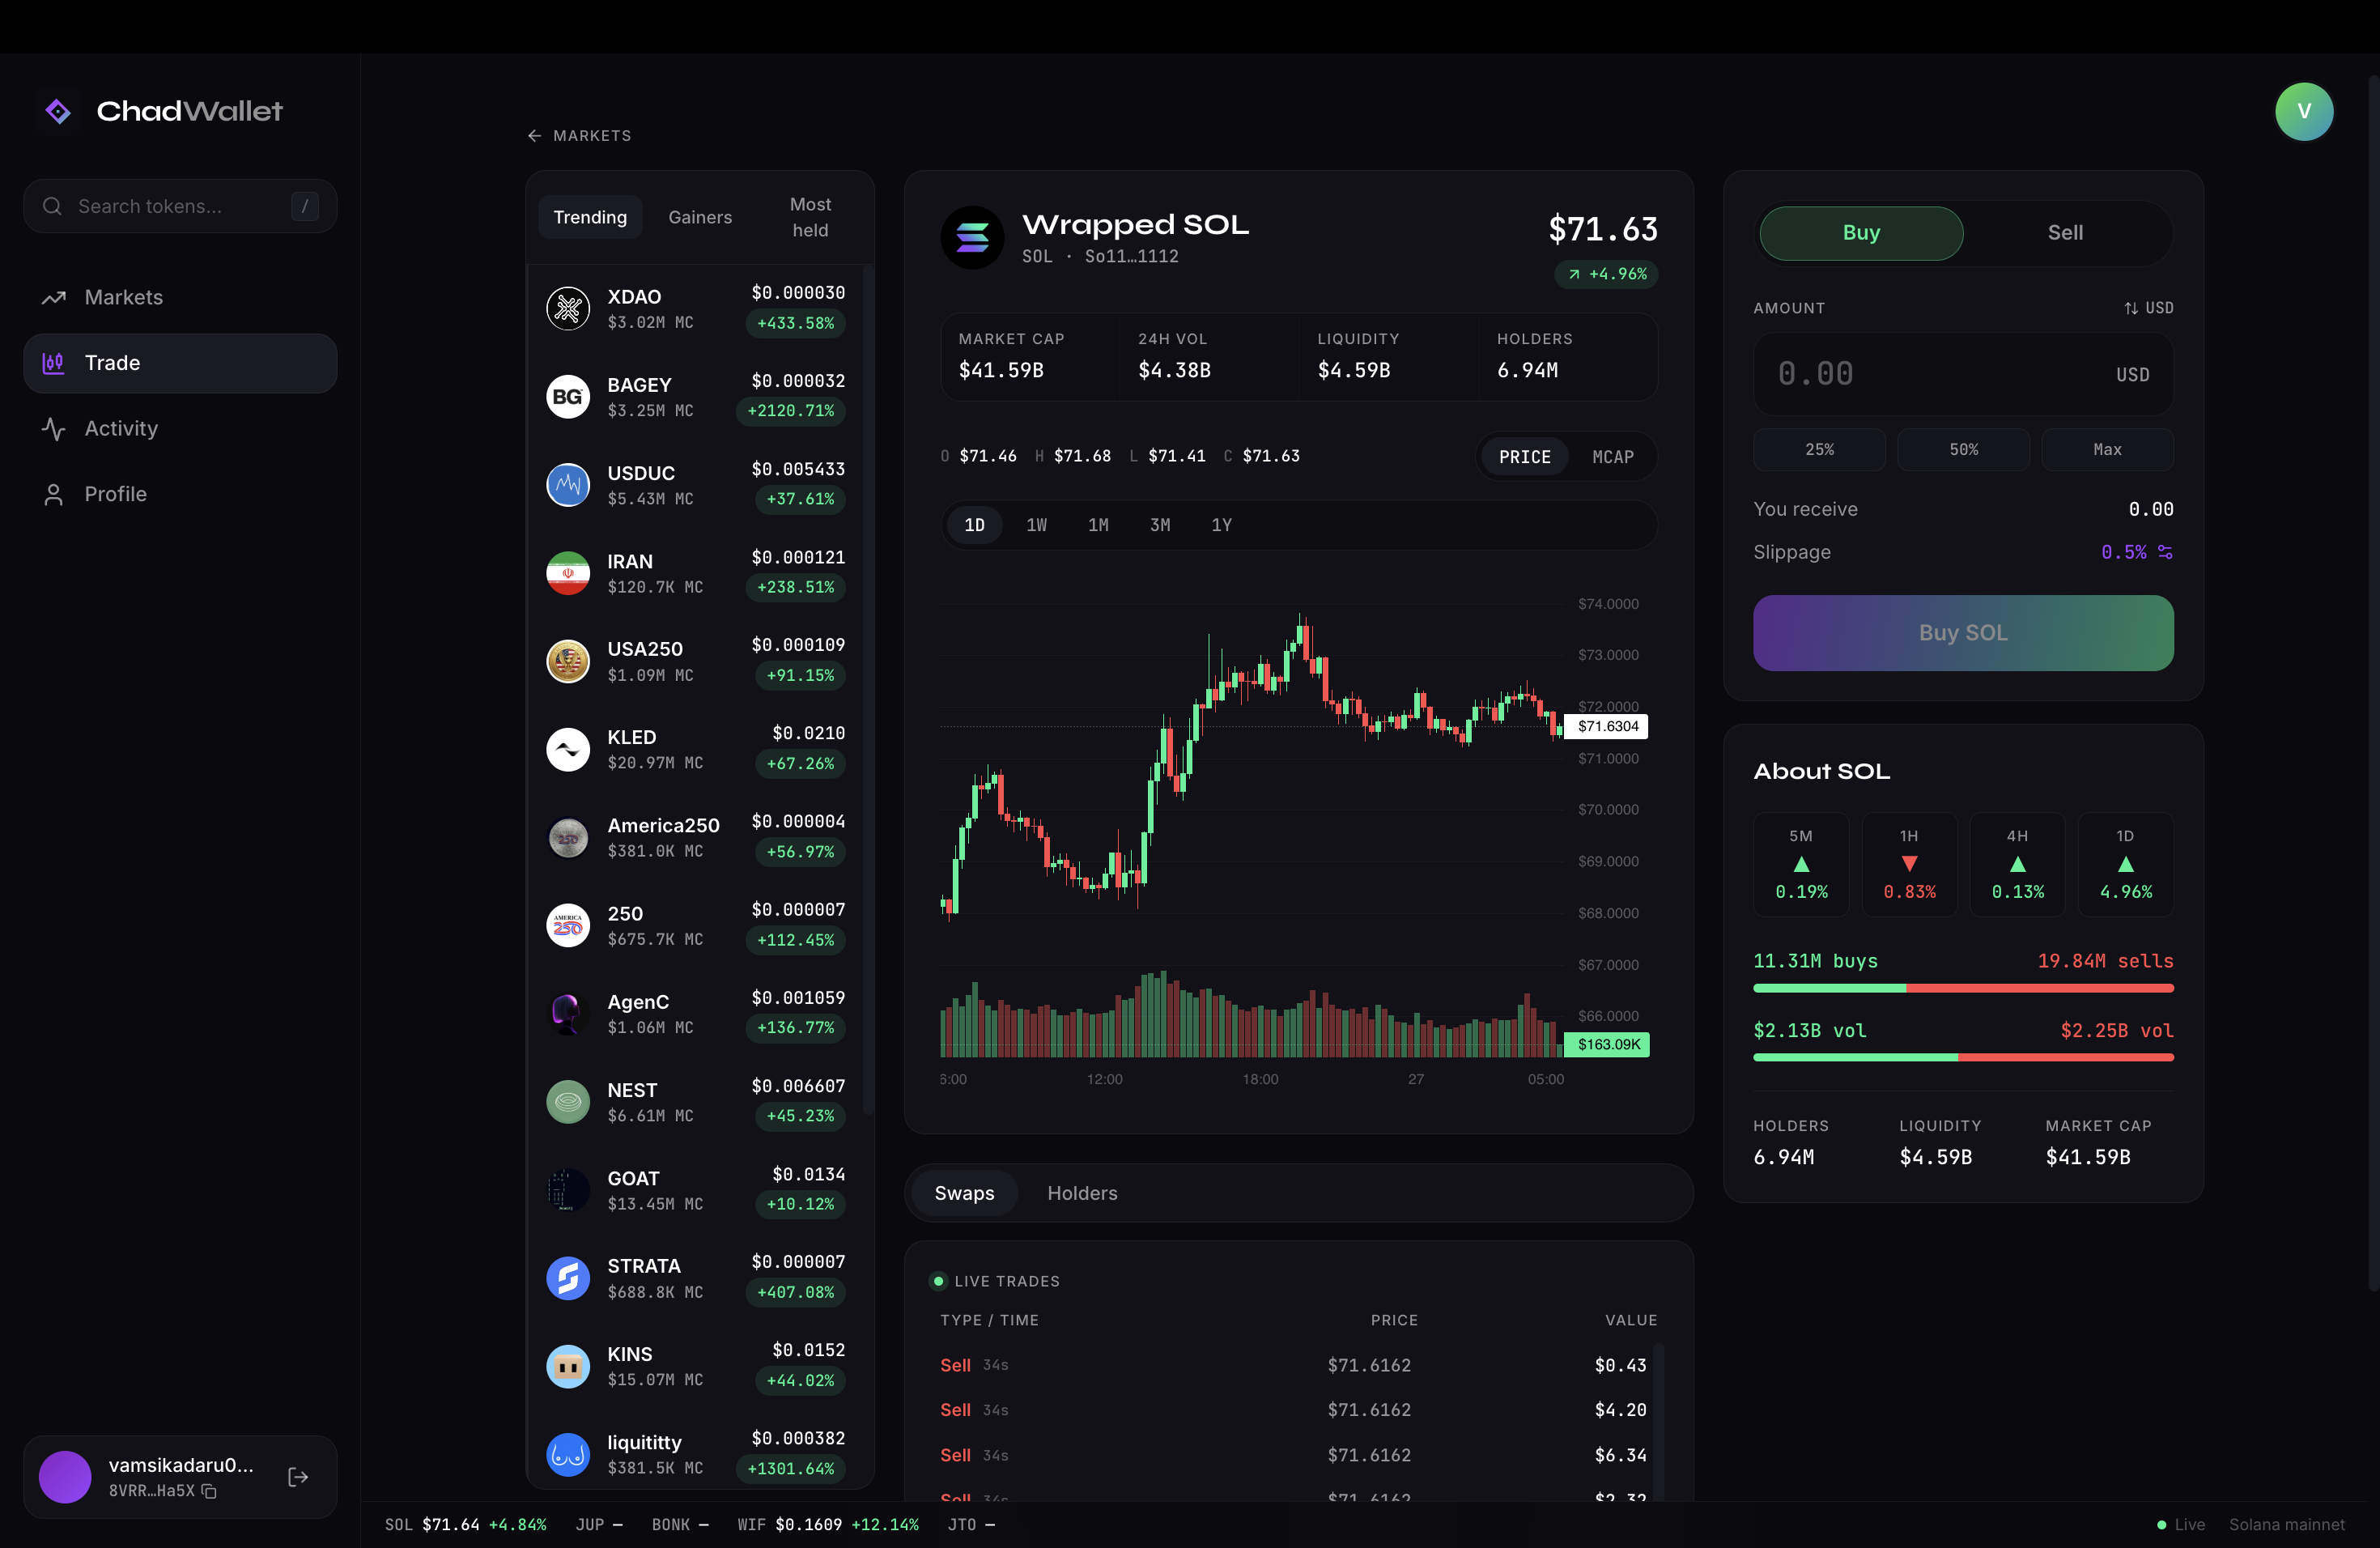
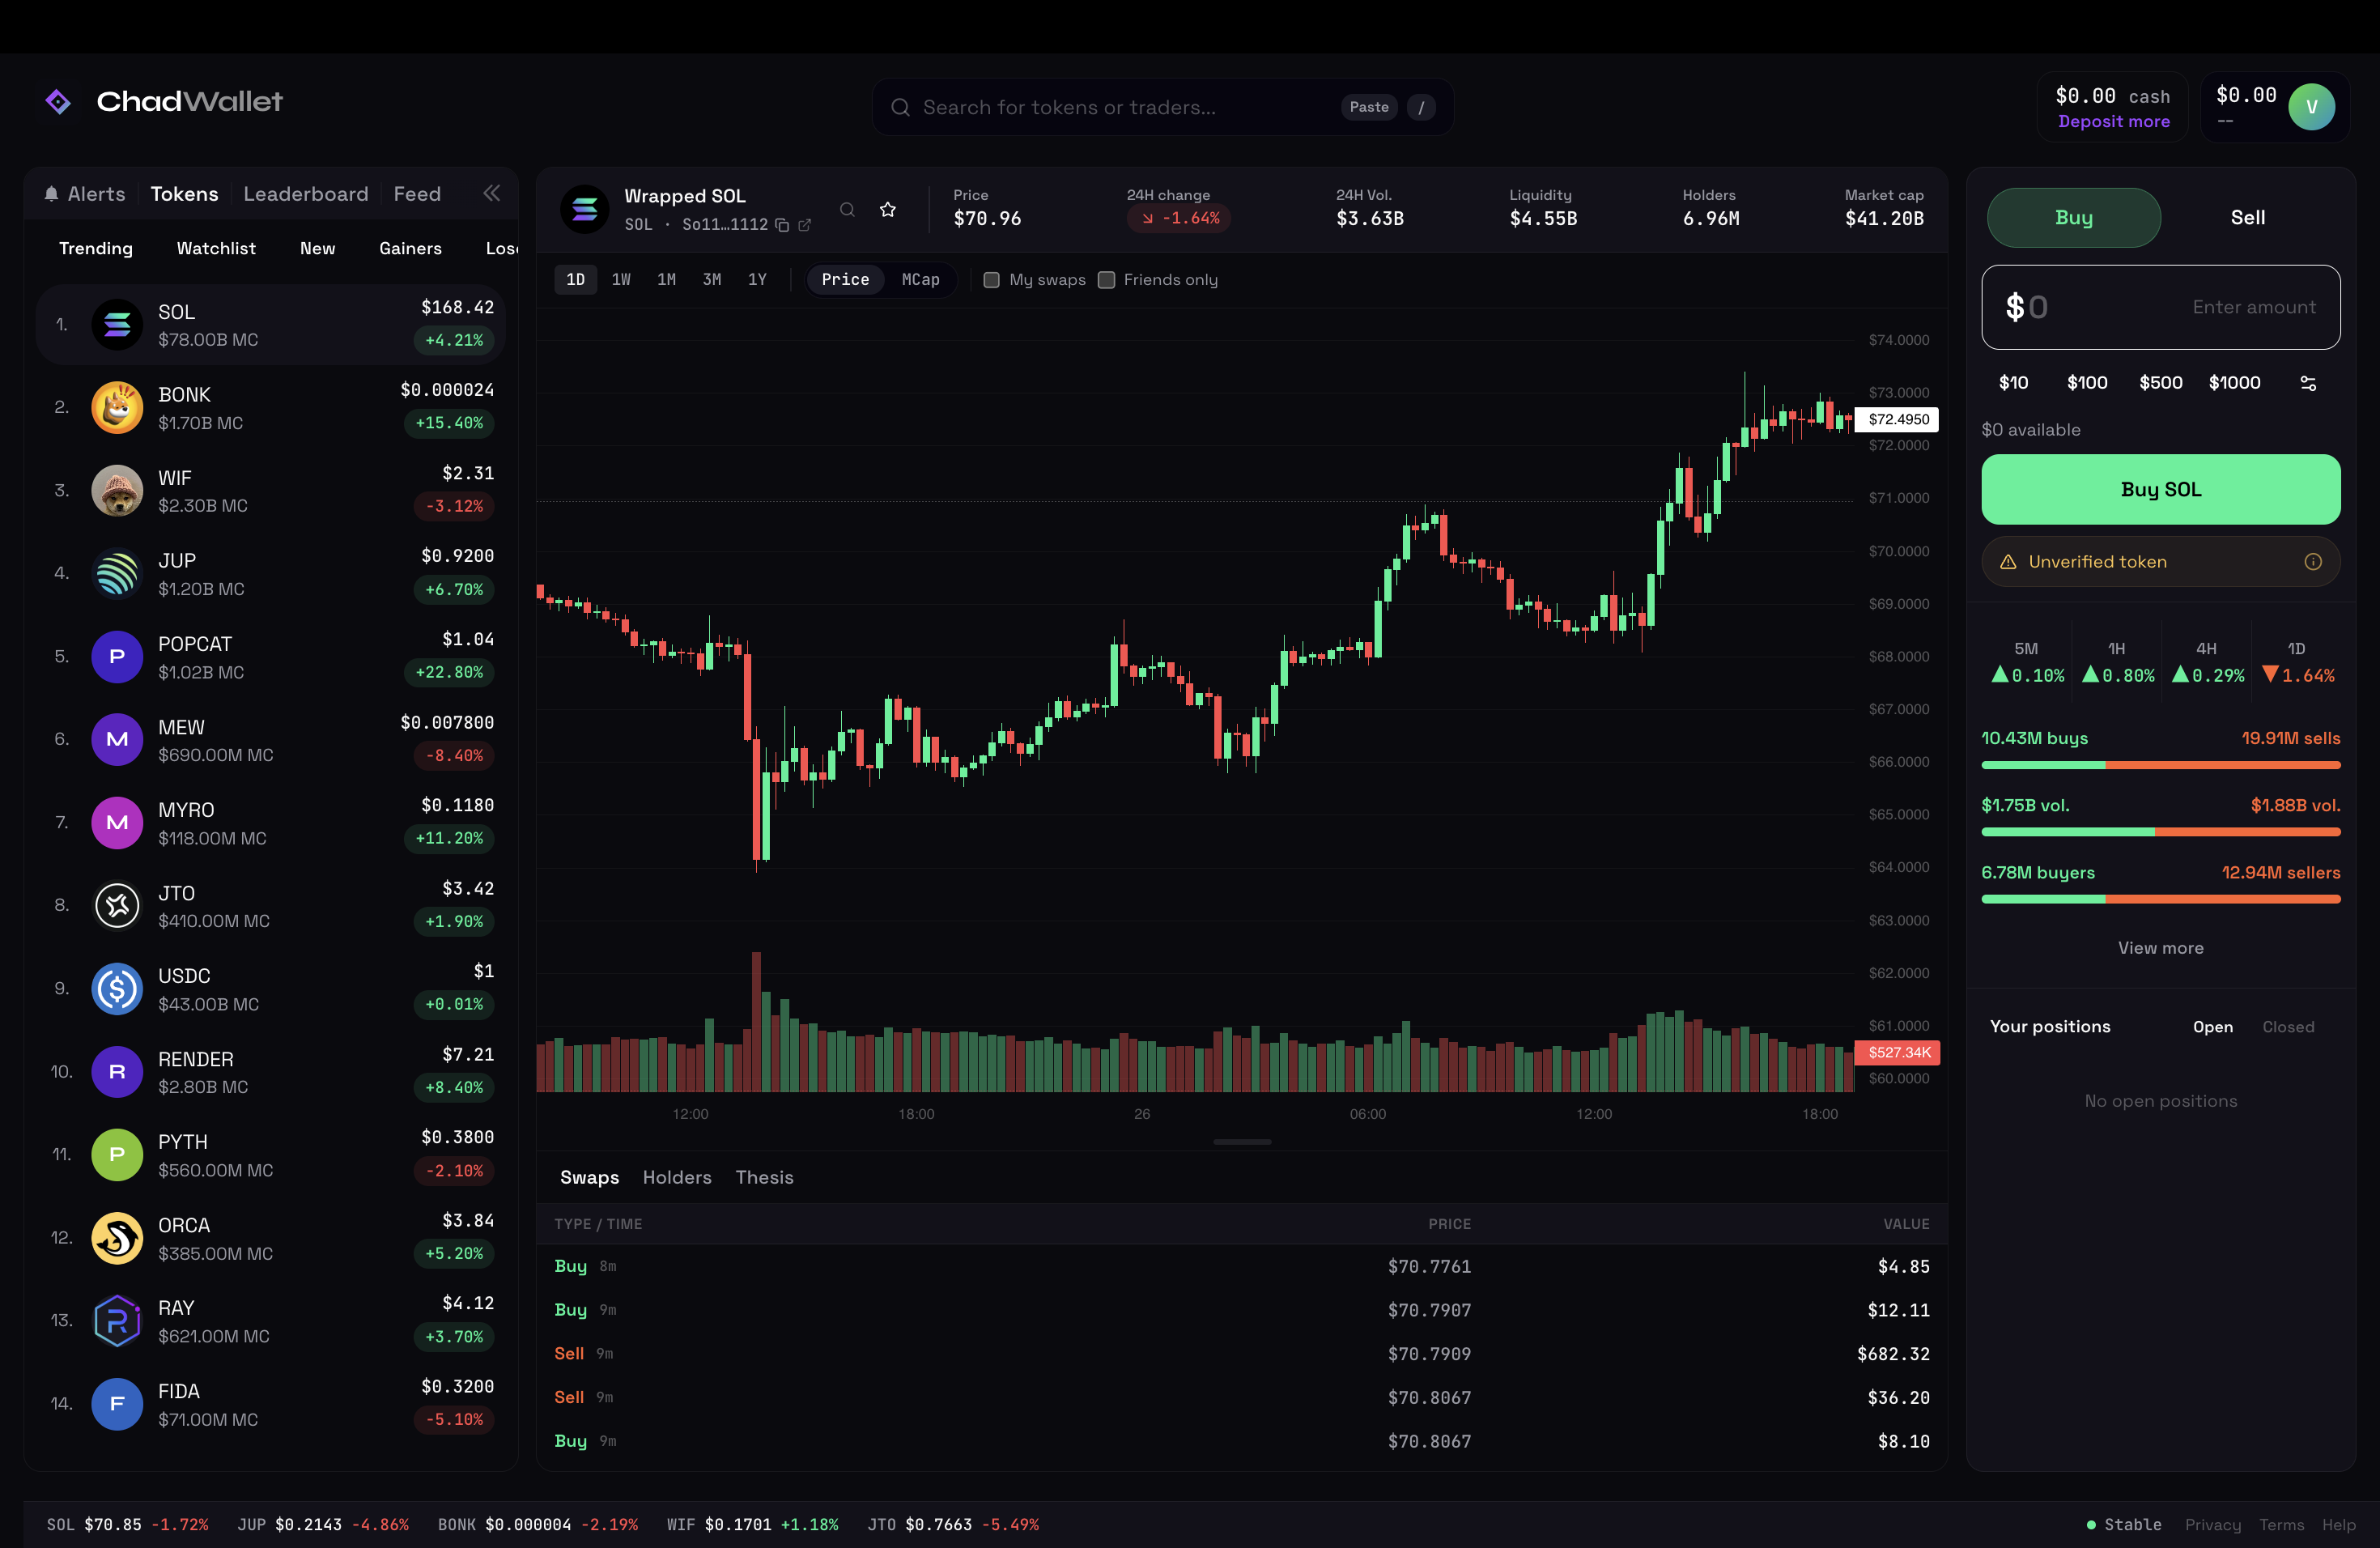
Mobile View Bugs

diff --git a/src/app/api/birdeye/route.ts b/src/app/api/birdeye/route.ts
@@ -122,6 +122,67 @@ async function getGeckoTrades(mint: string): Promise<NextResponse> {
   }
 }
 
+// ─── GeckoTerminal fallback for /ohlcv ──────────────────────────────────────
+// Maps our interval strings to GeckoTerminal timeframe + aggregate params.
+const INTERVAL_TO_GT: Record<string, { tf: string; agg: number; limit: number }> = {
+  "15m": { tf: "minute", agg: 15, limit: 200 },
+  "1H":  { tf: "hour",   agg: 1,  limit: 200 },
+  "4H":  { tf: "hour",   agg: 4,  limit: 200 },
+  "12H": { tf: "hour",   agg: 12, limit: 200 },
+  "1D":  { tf: "day",    agg: 1,  limit: 400 },
+};
+
+async function getGeckoOHLCV(mint: string, interval: string, timeTo: number): Promise<NextResponse> {
+  const gt = INTERVAL_TO_GT[interval];
+  if (!gt || !mint) return NextResponse.json({ fallback: true });
+
+  try {
+    // Pool address — cached 1 hour (same as trades fallback)
+    const poolsRes = await fetch(
+      `${GECKO}/networks/solana/tokens/${mint}/pools?page=1`,
+      { headers: GECKO_H, next: { revalidate: 3600 } } as RequestInit
+    );
+    if (!poolsRes.ok) return NextResponse.json({ fallback: true });
+    const poolsJson = await poolsRes.json();
+    const pools: unknown[] = poolsJson?.data ?? [];
+    if (!pools.length) return NextResponse.json({ fallback: true });
+
+    const topPoolId   = ((pools[0] as Record<string, unknown>).id as string) ?? "";
+    const pairAddress = topPoolId.replace("solana_", "");
+    if (!pairAddress) return NextResponse.json({ fallback: true });
+
+    // OHLCV candles — cached 60 s
+    const ts = timeTo > 0 ? timeTo : Math.floor(Date.now() / 1000);
+    const ohlcvRes = await fetch(
+      `${GECKO}/networks/solana/pools/${pairAddress}/ohlcv/${gt.tf}` +
+        `?aggregate=${gt.agg}&limit=${gt.limit}&currency=usd&before_timestamp=${ts}`,
+      { headers: GECKO_H, next: { revalidate: 60 } } as RequestInit
+    );
+    if (!ohlcvRes.ok) return NextResponse.json({ fallback: true });
+    const ohlcvJson = await ohlcvRes.json();
+
+    // GeckoTerminal: [timestamp_seconds, open, high, low, close, volume_base]
+    // Returns newest-first; our parser expects oldest-first.
+    const list: unknown[] = ohlcvJson?.data?.attributes?.ohlcv_list ?? [];
+    if (!list.length) return NextResponse.json({ fallback: true });
+
+    const items = (list as [number, number, number, number, number, number][])
+      .map(([ts2, o, h, l, c, v = 0]) => {
+        if (!isFinite(c) || c <= 0) return null;
+        return { unixTime: ts2, o, h, l, c, v: v ?? 0 };
+      })
+      .filter(Boolean)
+      .reverse(); // oldest-first
+
+    return NextResponse.json(
+      { success: true, data: { items } },
+      { headers: { "Cache-Control": "s-maxage=60, stale-while-revalidate=120" } }
+    );
+  } catch {
+    return NextResponse.json({ fallback: true });
+  }
+}
+
 // ─── Solana RPC fallback for /holder ────────────────────────────────────────
 // Resolves the top-20 holders of an SPL token via two public RPC calls
 // (getTokenLargestAccounts + getMultipleAccounts). Returns data in
@@ -239,6 +300,11 @@ export async function GET(req: Request) {
       // BirdEye HTTP error — fall back to free alternatives for key endpoints
       if (type === "holder") return getSolanaHolders(searchParams.get("address") ?? "");
       if (type === "trades") return getGeckoTrades(searchParams.get("address") ?? "");
+      if (type === "ohlcv") return getGeckoOHLCV(
+        searchParams.get("address") ?? "",
+        searchParams.get("interval") ?? "1H",
+        parseInt(searchParams.get("time_to") ?? "0")
+      );
       return NextResponse.json({ error: `BirdEye ${res.status}`, fallback: true });
     }
 
@@ -249,6 +315,11 @@ export async function GET(req: Request) {
     if (data?.success === false) {
       if (type === "holder") return getSolanaHolders(searchParams.get("address") ?? "");
       if (type === "trades") return getGeckoTrades(searchParams.get("address") ?? "");
+      if (type === "ohlcv") return getGeckoOHLCV(
+        searchParams.get("address") ?? "",
+        searchParams.get("interval") ?? "1H",
+        parseInt(searchParams.get("time_to") ?? "0")
+      );
       return NextResponse.json({ error: "birdeye_error", fallback: true });
     }
 

diff --git a/src/components/TradingChart.tsx b/src/components/TradingChart.tsx
@@ -55,22 +55,24 @@ export default function TradingChart({
   const volRef         = useRef<ISeriesApi<"Histogram"> | null>(null);
   const isPressedRef   = useRef(false);
   const lastHoverRef   = useRef<HoverState | null>(null);
-  const loadingMoreRef = useRef(false);
-  const scaleRef       = useRef(scale);
-  const dataLoadedRef  = useRef(false); // tracks whether setData has been called at least once
+  const loadingMoreRef    = useRef(false);
+  const scaleRef          = useRef(scale);
+  const dataLoadedRef     = useRef(false);
+  const latestCandlesRef  = useRef<Candle[]>([]); // always tracks current candles prop
 
   /* Mutable refs so chart-creation subscriptions always see current values */
-  const firstCandleTimeRef  = useRef(0);
-  const onLoadEarlierRef    = useRef<((t: number) => void) | undefined>(undefined);
+  const firstCandleTimeRef = useRef(0);
+  const onLoadEarlierRef   = useRef<((t: number) => void) | undefined>(undefined);
 
   const [resolvedHeight, setResolvedHeight] = useState(
     typeof height === "number" ? height : 400
   );
   const [hoverState, setHoverState] = useState<HoverState | null>(null);
 
-  /* Keep mutable refs in sync */
-  onLoadEarlierRef.current = onLoadEarlier;
-  scaleRef.current = scale;
+  /* Keep mutable refs in sync every render */
+  onLoadEarlierRef.current  = onLoadEarlier;
+  scaleRef.current          = scale;
+  latestCandlesRef.current  = candles;
 
   /* ── fill-mode height observer ── */
   useEffect(() => {
@@ -130,6 +132,24 @@ export default function TradingChart({
     });
     volSeries.priceScale().applyOptions({ scaleMargins: { top: 0.82, bottom: 0 } });
     volRef.current = volSeries;
+
+    /* If candles are already loaded (e.g. cached), apply them immediately.
+       Without this, the ResizeObserver fires → chart recreates → data-update
+       effect doesn't re-run (candles unchanged) → chart appears empty. */
+    const initialCandles = latestCandlesRef.current;
+    if (initialCandles.length) {
+      const s = scaleRef.current;
+      candleSeries.setData(initialCandles.map((c) => ({
+        time: c.time as UTCTimestamp, open: c.open * s, high: c.high * s, low: c.low * s, close: c.close * s,
+      })));
+      volSeries.setData(initialCandles.map((c) => ({
+        time: c.time as UTCTimestamp, value: c.volume,
+        color: c.close >= c.open ? "rgba(20,241,149,0.4)" : "rgba(255,75,75,0.4)",
+      })));
+      firstCandleTimeRef.current = initialCandles[0].time;
+      dataLoadedRef.current = true;
+      chart.timeScale().fitContent();
+    }
 
     /* Touch/mouse press for OHLC tooltip */
     const el = containerRef.current;

diff --git a/src/app/trade/[address]/page.tsx b/src/app/trade/[address]/page.tsx
@@ -240,10 +240,10 @@ export default function TradePage({
   ];
 
   return (
-    <div className="flex h-full min-h-0 gap-3">
+    <div className="flex flex-col gap-3 md:h-full md:min-h-0 md:flex-row">
 
       {/* ── CENTER COLUMN ── */}
-      <div className="flex min-h-0 min-w-0 flex-1 flex-col overflow-hidden rounded-xl border border-bg-tertiary">
+      <div className="flex flex-col min-w-0 overflow-hidden rounded-xl border border-bg-tertiary md:min-h-0 md:flex-1">
 
         {/* Token header bar */}
         <div className="flex shrink-0 items-center gap-0 border-b border-bg-tertiary bg-bg-secondary px-4 py-2.5 overflow-hidden">
@@ -329,11 +329,11 @@ export default function TradePage({
         </div>
 
         {/* Chart area */}
-        <div className="flex min-h-0 flex-1 flex-col">
-          {/* Single unified controls bar */}
-          <div className="flex shrink-0 items-center gap-2 border-b border-bg-tertiary px-3 py-1.5">
+        <div className="flex flex-col md:min-h-0 md:flex-1">
+          {/* Single unified controls bar — scrollable so it never clips on narrow viewports */}
+          <div className="no-scrollbar flex shrink-0 items-center gap-2 overflow-x-auto border-b border-bg-tertiary px-3 py-1.5">
             {/* Range picker */}
-            <div className="flex items-center gap-0.5">
+            <div className="flex shrink-0 items-center gap-0.5">
               {RANGES.map((r) => (
                 <button
                   key={r}
@@ -352,7 +352,7 @@ export default function TradePage({
             <div className="h-4 w-px shrink-0 bg-bg-tertiary" />
 
             {/* Price / MCap */}
-            <div className="flex items-center gap-0.5 rounded-full border border-bg-tertiary bg-bg-primary p-0.5">
+            <div className="flex shrink-0 items-center gap-0.5 rounded-full border border-bg-tertiary bg-bg-primary p-0.5">
               {(["price", "mcap"] as const).map((d) => (
                 <button
                   key={d}
@@ -375,7 +375,7 @@ export default function TradePage({
               ["mySwaps", "My swaps", mySwapsOnly, setMySwapsOnly],
               ["friendsOnly", "Friends only", friendsOnly, setFriendsOnly],
             ] as [string, string, boolean, (v: boolean) => void][]).map(([id, label, checked, setter]) => (
-              <label key={id} className="flex cursor-pointer select-none items-center gap-1.5">
+              <label key={id} className="flex shrink-0 cursor-pointer select-none items-center gap-1.5">
                 <input
                   type="checkbox"
                   checked={checked}
@@ -387,8 +387,8 @@ export default function TradePage({
             ))}
           </div>
 
-          {/* Chart fills remaining height */}
-          <div className="min-h-0 flex-1">
+          {/* Mobile: square. md: capped (mobile-in-desktop-mode has 2000px+ virtual height). lg+: fill. */}
+          <div className="aspect-square w-full shrink-0 md:aspect-auto md:min-h-0 md:flex-1 md:max-h-[500px] lg:max-h-none">
             <SectionBoundary label="chart">
               {candles.length ? (
                 <TradingChart candles={candles} scale={scale} height="fill" onLoadEarlier={handleLoadEarlier} />
@@ -430,9 +430,9 @@ export default function TradePage({
           </div>
         </div>
 
-        {/* Resize handle */}
+        {/* Resize handle — desktop only */}
         <div
-          className="group relative flex h-3 shrink-0 cursor-row-resize items-center justify-center"
+          className="group relative hidden h-3 shrink-0 cursor-row-resize items-center justify-center md:flex"
           onMouseDown={(e) => { e.preventDefault(); startResize(e.clientY); }}
           onTouchStart={(e) => startResize(e.touches[0].clientY)}
         >
@@ -442,8 +442,8 @@ export default function TradePage({
           </span>
         </div>
 
-        {/* Bottom tabs: Swaps / Holders / Thesis */}
-        <div className="flex shrink-0 flex-col border-t border-bg-tertiary" style={{ height: tabsHeight }}>
+        {/* Bottom tabs — fixed-height + inner scroll on desktop; natural height on mobile */}
+        <div className="flex flex-col border-t border-bg-tertiary md:shrink-0" style={{ height: tabsHeight }}>
           <div className="flex shrink-0 items-center gap-4 border-b border-bg-tertiary px-4 py-2">
             {(["swaps", "holders", "thesis"] as const).map((t) => (
               <button

diff --git a/src/components/AppShell.tsx b/src/components/AppShell.tsx
@@ -19,7 +19,7 @@ function BootSplash() {
   );
 }
 
-/* Expand arrow — same chevrons as fomo's collapse SVG but rotated 180° */
+/* Expand arrow */
 function ExpandIcon() {
   return (
     <svg width="12" height="12" viewBox="0 0 14 14" fill="none" className="rotate-180">
@@ -40,33 +40,13 @@ export default function AppShell({ children }: { children: React.ReactNode }) {
 
   // md (≥768 px) = mobile "Request Desktop Site" — narrower sidebar
   // lg (≥1024 px) = real desktop — full-width sidebar
-  const sidebarWidth = sidebarOpen ? "md:w-48 lg:w-70 2xl:w-85" : "md:w-8";
+  const sidebarWidth = sidebarOpen ? "md:w-56 lg:w-70 2xl:w-85" : "md:w-8";
 
   return (
     <div
       className="flex h-svh max-h-svh w-dvw flex-col gap-3 overflow-hidden pl-4 pt-2"
       style={{ background: "var(--bg-0)" }}
     >
-      {/* Mobile guard — full-screen overlay on viewports below 768 px (md breakpoint).
-          Mobile "Request Desktop Site" typically gives ≥980 px so the overlay disappears. */}
-      <div
-        className="fixed inset-0 z-50 flex flex-col items-center justify-center gap-6 md:hidden"
-        style={{ background: "var(--bg-0)" }}
-      >
-        <div className="flex items-center gap-2.5">
-          <svg width="28" height="28" viewBox="0 0 24 24" fill="none">
-            <path d="M12 2L2 7l10 5 10-5-10-5zM2 17l10 5 10-5M2 12l10 5 10-5" stroke="var(--accent)" strokeWidth="2" strokeLinecap="round" strokeLinejoin="round"/>
-          </svg>
-          <span className="text-xl font-bold text-text-primary">ChadWallet</span>
-        </div>
-        <div className="flex flex-col items-center gap-2 px-10 text-center">
-          <p className="text-sm font-semibold text-text-primary">Desktop view required</p>
-          <p className="text-xs leading-relaxed text-text-secondary">
-            ChadWallet is designed for desktop. Open this on a desktop browser, or enable &ldquo;Request Desktop Site&rdquo; in your mobile browser.
-          </p>
-        </div>
-      </div>
-
       {/* Header */}
       <div className="shrink-0 pr-4">
         <AppHeader />
@@ -93,8 +73,8 @@ export default function AppShell({ children }: { children: React.ReactNode }) {
           )}
         </div>
 
-        {/* Main content */}
-        <main className="flex min-h-0 min-w-0 flex-1 flex-col overflow-hidden pr-4">
+        {/* Main content — scrollable on mobile, fixed on desktop */}
+        <main className="flex min-h-0 min-w-0 flex-1 flex-col overflow-y-auto md:overflow-hidden pr-4">
           {children}
         </main>
       </div>